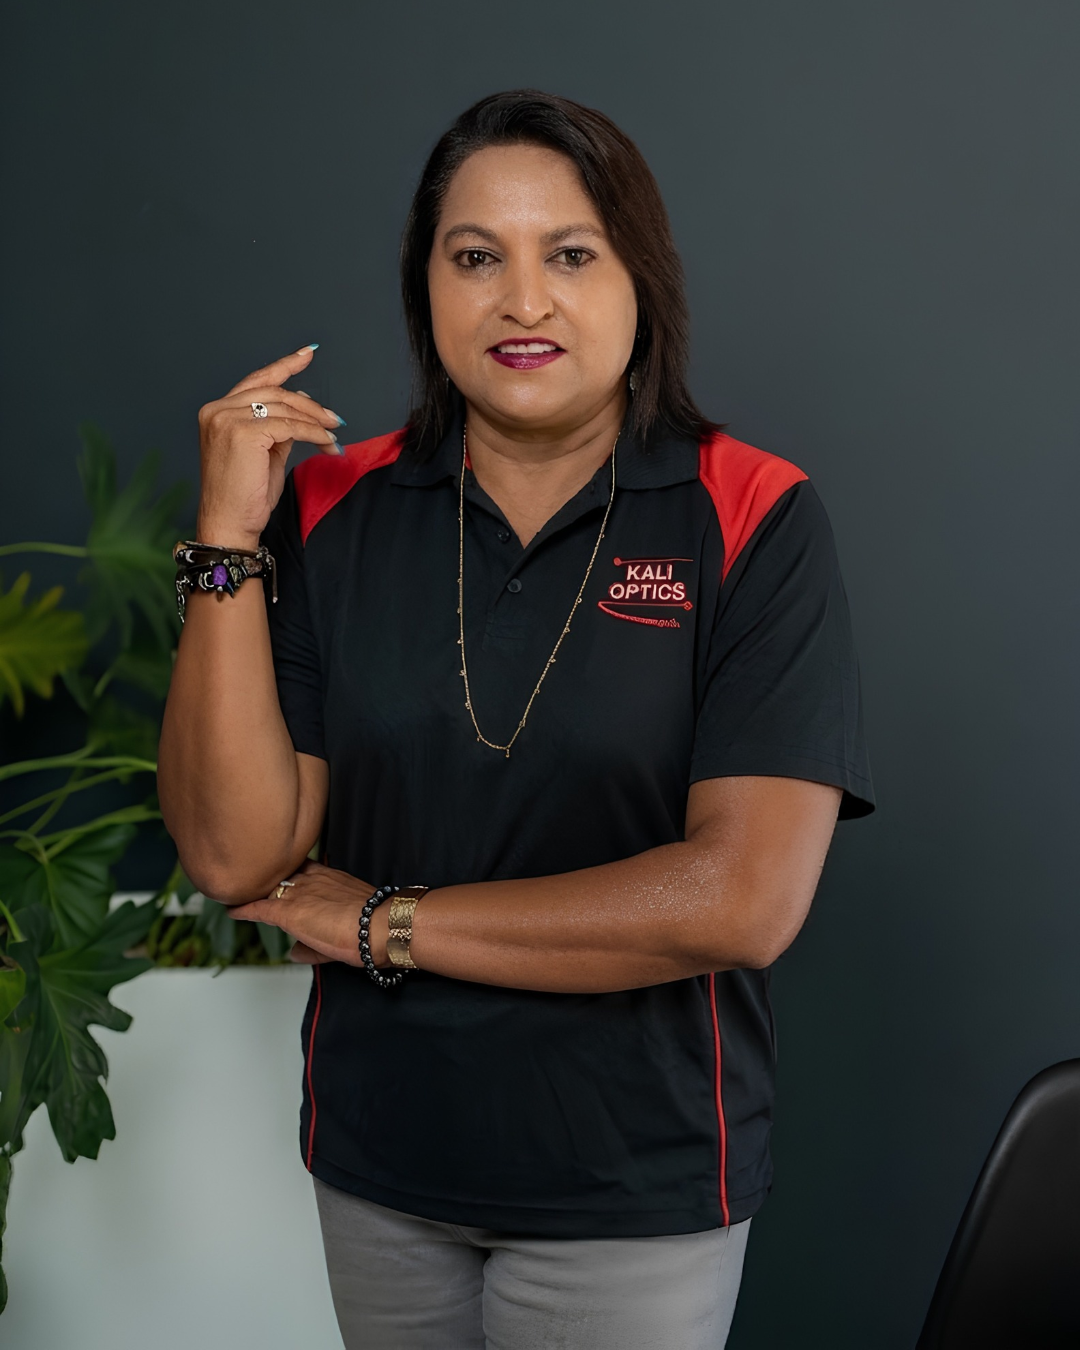
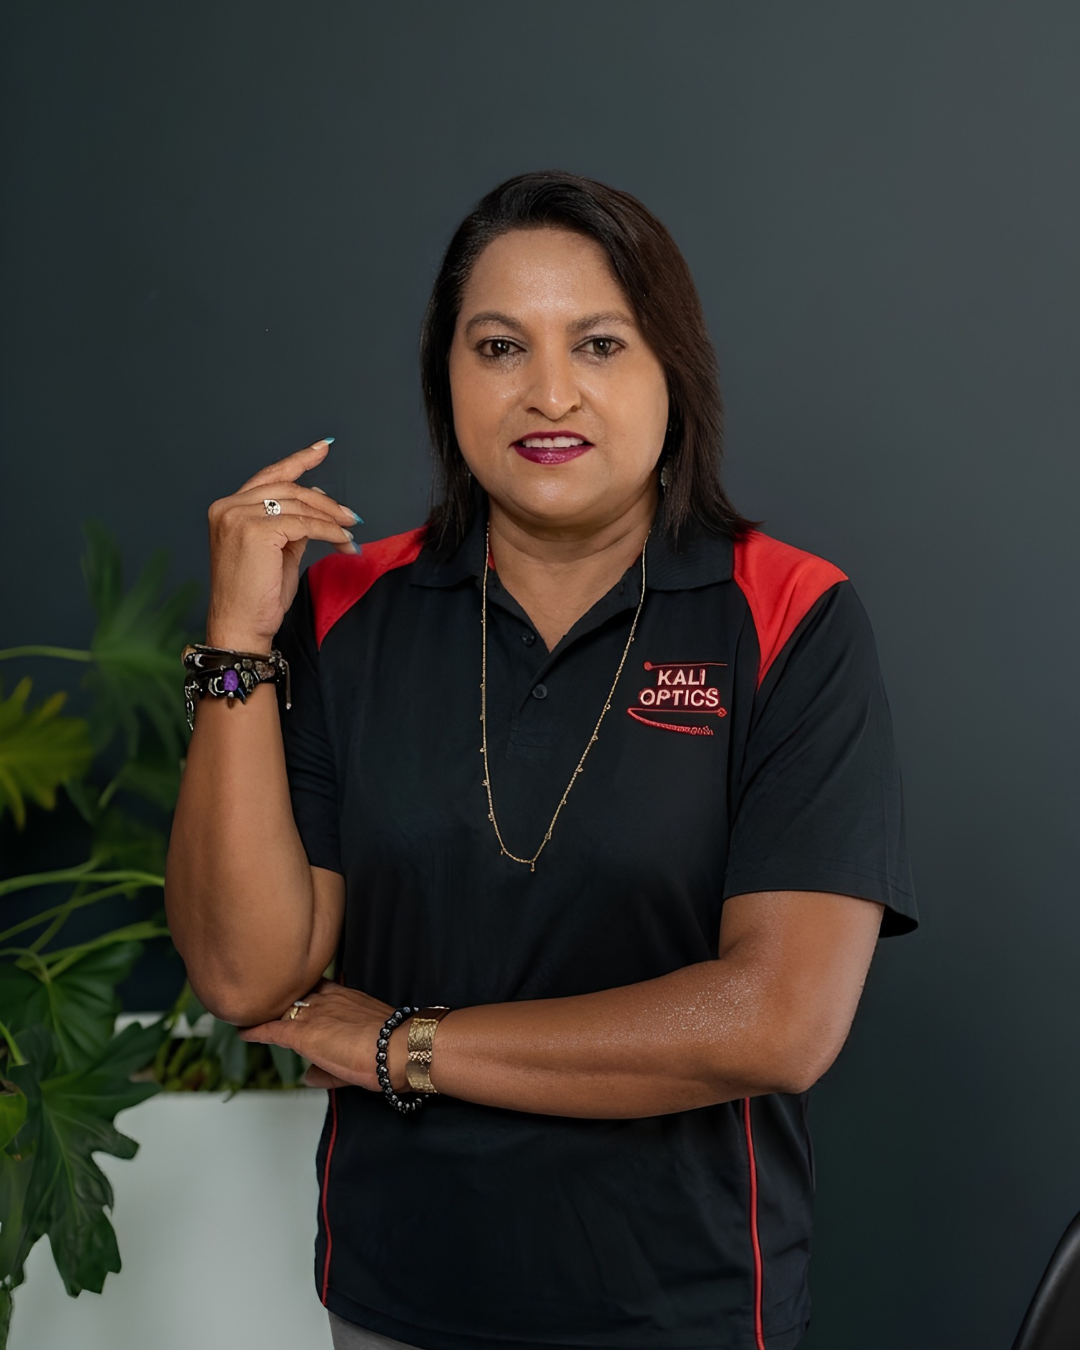
Completed Founders Section

diff --git a/CSS/home.css b/CSS/home.css
@@ -1,3 +1,9 @@
+.hero {
+  position: relative;
+  min-height: 100vh;
+  isolation: isolate;
+}
+
 .logo{
     position: absolute;
         top: 50%;
@@ -65,29 +71,63 @@
 }
 
 .description {
-border-top: 2px solid #ff0003;
-border-bottom: 2px solid #ff0003;
-  max-width: 750px;
-  position: absolute;
-  top: 120%;
-  left: 50%;
+  width: min(750px, calc(100% - 48px));
+  box-sizing: border-box;
+  position: relative;
   align-items: center;
-  transform: translate(-50%, -50%);
+  margin: 3rem auto 0;
+  padding: 1rem 1.25rem;
+  border-top: 2px solid #ff0003;
+  border-bottom: 2px solid #ff0003;
   text-align: center;
-
-
   color: #eeeeee;
   font-family: 'Rajdhani', sans-serif;
   font-weight: bold;
   font-size: 1.7rem;
-  z-index: 2; /* Ensure it appears above the particles */
-
+  z-index: 2;
+  margin-top: 7rem;
 }
 
+.founders {
+  display: grid;
+  width: min(700px, calc(100% - 32px));
+  box-sizing: border-box;
+  grid-template-columns: repeat(2, minmax(0, 1fr));
+  justify-content: center;
+  gap: 3.5rem clamp(7rem, 8vw, 9.5rem);
+  margin: 3.5rem auto 4rem; 
+}
 
+.headings {
+  grid-column: 1 / -1;
+  margin: 0;
+  color: #eeeeee;
+  font-size: clamp(1.75rem, 5vw, 3rem);
+  text-align: center;
+  font-family: 'Oswald', sans-serif;
+  -webkit-text-stroke: 1.5px #D80003; 
+  /* text-decoration: underline;
+  text-decoration-color: #D80003;
+  text-decoration-thickness: 2px; */
+}
+
+.founder-photo {
+  display: block;
+  width: 100%;
+  aspect-ratio: 0.88;
+  box-sizing: border-box;
+  object-fit: cover;
+  border: 4px solid #ff0003;
+  border-radius: 25px;
+  box-shadow: 0 0 12px 3px rgba(255, 0, 3, 0.75);
+}
 
 /*/////////////////////////Mobile Styling/////////////////////////////////*/
 @media (max-width: 768px) { 
+  .hero {
+    min-height: 100svh;
+  }
+
   #particles-js {
     height: 100svh;
   }
@@ -111,7 +151,7 @@ border-bottom: 2px solid #ff0003;
     margin: 0;
     font-size: clamp(1rem, 6vw, 2.4rem);
     line-height: 1.15;
-    overflow-wrap: anywhere;
+    overflow-wrap: anywhere; /* Ensures long words break to fit smaller screens */
   }
 
   .profile-download {
@@ -120,12 +160,40 @@ border-bottom: 2px solid #ff0003;
     left: auto;
     display: inline-block;
     max-width: 100%;
-    box-sizing: border-box;
-    margin-top: 3rem;
-    padding: 8px 15px;
+    box-sizing: border-box; 
+    margin-top: 2rem;
+    padding: 7px 15px;
     transform: none;
     font-size: clamp(1.25rem, 4vw, 1.25rem);
     z-index: 1;
+
+
+  }
+
+  .description {
+    width: calc(100% - 32px);
+ 
+    font-size: 1.25rem;
+
+  }
+
+  /* Mobile founders layout; adjust these values independently from desktop. */
+  .founders {
+    display: grid;
+    width: min(1500px, calc(100% - 32px));
+    box-sizing: border-box;
+    grid-template-columns: repeat(2, minmax(0, 1fr));
+    justify-content: center;
+    gap: 2rem clamp(3rem, 8vw, 9.5rem); 
+    margin: 2rem auto 4rem;
+    /*Adjust border radius and box shadow*/
+  }
+
+  .founder-photo {
+    display: block;
+    width: 100%;
+    border: 3px solid #ff0003;
+    border-radius: 25px; 
+    box-shadow: 0 0 12px 2px rgba(255, 0, 3, 0.75);
   }
 }
-

diff --git a/index.html b/index.html
@@ -52,13 +52,12 @@
       </div>
     </section>
 
-    <section>
-      <div class="photos">
-        
+    <!-- Founders section follows the description and keeps both portraits together. -->
+    <section aria-labelledby="founders-heading">
+      <div class="founders">
+        <h2 class="headings" id="founders-heading">Founders</h2>
         <img src="images/Founders/Raj.png" alt="Raj Founder" class="founder-photo">
         <img src="images/Founders/Sharm.png" alt="Sharm Founder" class="founder-photo">
-
-        
       </div>
     </section>
   </main>
